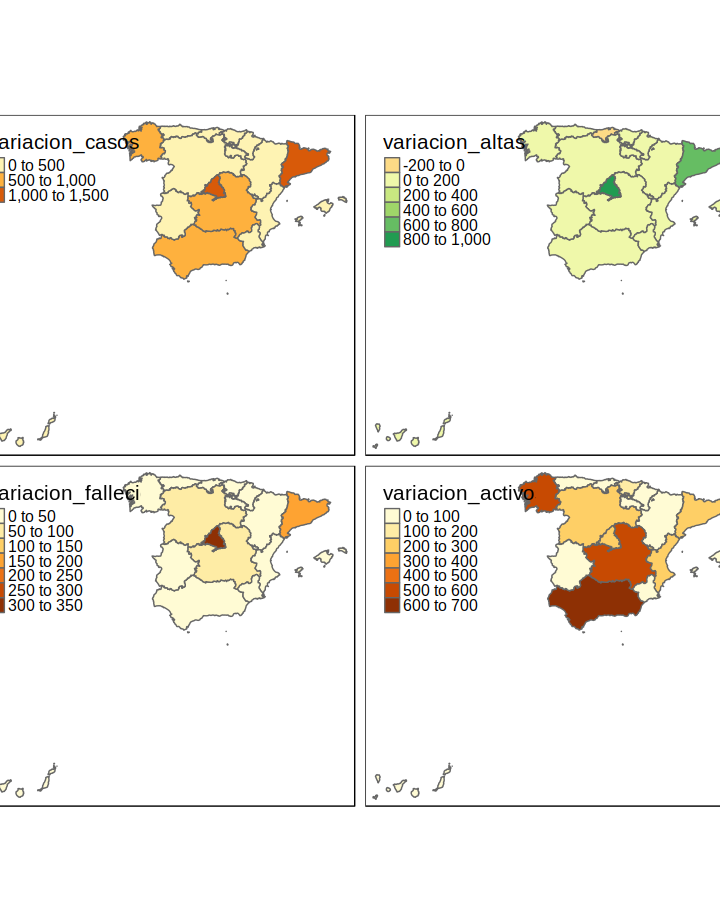
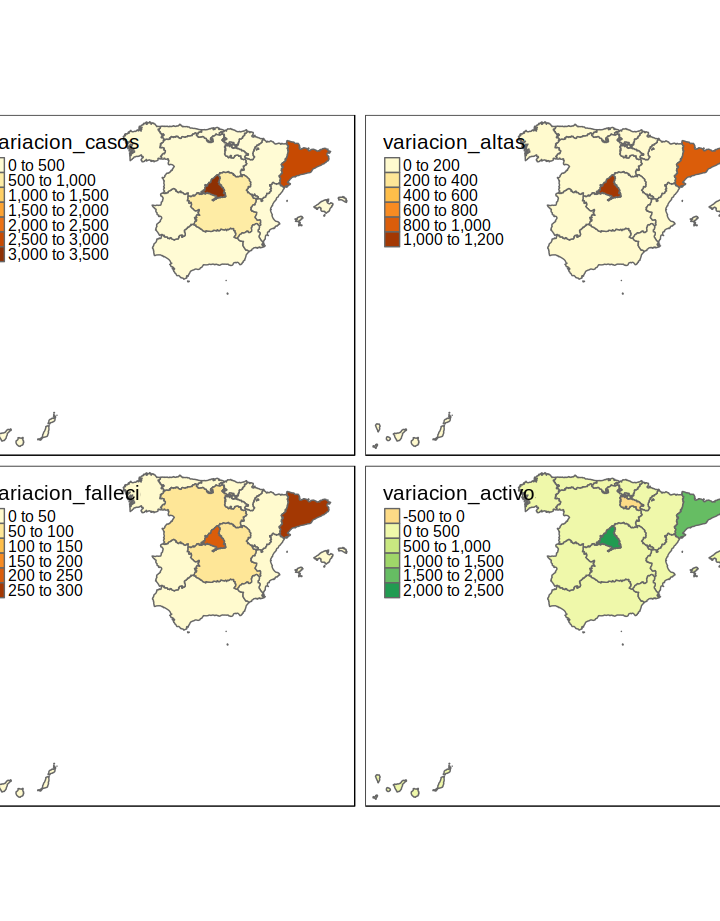
Updates data.

diff --git a/docs/index.html b/docs/index.html
@@ -2609,35 +2609,35 @@ window.FlexDashboardComponents.push({
 <div class="knitr-options" data-fig-width="576" data-fig-height="460">
 
 </div>
-<span class="value-output" data-caption="Casos confirmados (a 2020-03-30)" data-icon="fas fa-virus" data-color="#1F77B4">85.195</span>
+<span class="value-output" data-caption="Casos confirmados (a 2020-03-31)" data-icon="fas fa-virus" data-color="#1F77B4">94.417</span>
 </div>
 <div id="active" class="section level3 value-box">
 <h3>active</h3>
 <div class="knitr-options" data-fig-width="576" data-fig-height="460">
 
 </div>
-<span class="value-output" data-caption="Casos activos (a 2020-03-30)" data-icon="fas fal-bacteria" data-color="#FF7F0E">61.075</span>
+<span class="value-output" data-caption="Casos activos (a 2020-03-31)" data-icon="fas fa-viruses" data-color="#FF7F0E">66.969</span>
 </div>
 <div id="uci" class="section level3 value-box">
 <h3>uci</h3>
 <div class="knitr-options" data-fig-width="576" data-fig-height="460">
 
 </div>
-<span class="value-output" data-caption="Casos hospitalizados (a 2020-03-30)" data-icon="fas fa-ambulance" data-color="pink">5.231</span>
+<span class="value-output" data-caption="Casos hospitalizados (a 2020-03-31)" data-icon="fas fa-ambulance" data-color="pink">5.607</span>
 </div>
 <div id="recovered" class="section level3 value-box">
 <h3>recovered</h3>
 <div class="knitr-options" data-fig-width="576" data-fig-height="460">
 
 </div>
-<span class="value-output" data-caption="Personas recuperadas (a 2020-03-30)" data-icon="fas fa-user-md" data-color="#2C9F2C">16.780</span>
+<span class="value-output" data-caption="Personas recuperadas (a 2020-03-31)" data-icon="fas fa-user-md" data-color="#2C9F2C">19.259</span>
 </div>
 <div id="deaths" class="section level3 value-box">
 <h3>deaths</h3>
 <div class="knitr-options" data-fig-width="576" data-fig-height="460">
 
 </div>
-<span class="value-output" data-caption="Fallecimientos (a 2020-03-30)" data-icon="fas fa-coffin" data-color="rgba(214, 39, 40, 1)">7.340</span>
+<span class="value-output" data-caption="Fallecimientos (a 2020-03-31)" data-icon="fas fa-coffin" data-color="rgba(214, 39, 40, 1)">8.189</span>
 </div>
 </div>
 <div id="row-1" class="section level2 tabset tabset-fade">
@@ -2647,32 +2647,32 @@ window.FlexDashboardComponents.push({
 <div class="knitr-options" data-fig-width="576" data-fig-height="460">
 
 </div>
-<div id="htmlwidget-e8a8a8850e2c8227f307" style="width:576px;height:460.8px;" class="plotly html-widget"></div>
-<script type="application/json" data-for="htmlwidget-e8a8a8850e2c8227f307">{"x":{"visdat":{"20085165167a":["function () ","plotlyVisDat"]},"cur_data":"20085165167a","attrs":{"20085165167a":{"alpha_stroke":1,"sizes":[10,100],"spans":[1,20],"x":{},"y":{},"type":"scatter","mode":"lines+markers","name":"Variación de contagios","inherit":true},"20085165167a.1":{"alpha_stroke":1,"sizes":[10,100],"spans":[1,20],"x":{},"y":{},"type":"scatter","mode":"lines+markers","name":"Variación de casos activos","inherit":true},"20085165167a.2":{"alpha_stroke":1,"sizes":[10,100],"spans":[1,20],"x":{},"y":{},"type":"scatter","mode":"lines+markers","name":"Variación de casos recuperados","inherit":true},"20085165167a.3":{"alpha_stroke":1,"sizes":[10,100],"spans":[1,20],"x":{},"y":{},"type":"scatter","mode":"lines+markers","name":"Variación de fallecimientos","inherit":true}},"layout":{"margin":{"b":40,"l":60,"t":25,"r":10},"shapes":[{"type":"line","y0":0,"y1":1,"yref":"paper","x0":"2020-03-13","x1":"2020-03-13","line":{"color":"grey","dash":"dot"}},{"type":"line","y0":0,"y1":1,"yref":"paper","x0":"2020-03-16","x1":"2020-03-16","line":{"color":"grey","dash":"dot"}},{"type":"line","y0":0,"y1":1,"yref":"paper","x0":"2020-03-30","x1":"2020-03-30","line":{"color":"grey","dash":"dot"}}],"annotations":[{"text":"Datos: Ministerio de Sanidad a través de Datadista","x":1,"y":-0.05,"showarrow":false,"xref":"paper","yref":"paper","xanchor":"right","yanchor":"bottom","font":{"size":10,"color":"grey"}},{"yref":"paper","xref":"x","y":0.5,"x":"2020-3-13","text":"Confinamiento voluntario"},{"yref":"paper","xref":"x","y":0.75,"x":"2020-3-16","text":"Confinamiento obligatorio"},{"yref":"paper","xref":"x","y":0.9,"x":"2020-3-30","text":"Únicamente trabajos indispensables"}],"title":"Evolución de variacion de casos del COVID-19 con respecto al día anterior, en España","yaxis":{"domain":[0,1],"automargin":true,"title":"Número de casos"},"xaxis":{"domain":[0,1],"automargin":true,"title":"Fecha"},"legend":{"x":0.1,"y":0.9},"hovermode":"compare","showlegend":true},"source":"A","config":{"showSendToCloud":false},"data":[{"x":["2020-03-30","2020-03-29","2020-03-28","2020-03-27","2020-03-26","2020-03-25","2020-03-24","2020-03-23","2020-03-22","2020-03-21","2020-03-20","2020-03-19","2020-03-18","2020-03-17","2020-03-16","2020-03-15","2020-03-14","2020-03-13","2020-03-12","2020-03-11","2020-03-10","2020-03-09","2020-03-08","2020-03-07","2020-03-06","2020-03-05","2020-03-04","2020-03-03","2020-03-02","2020-03-01","2020-02-29","2020-02-28","2020-02-27","2020-02-26"],"y":[6398,6549,8189,7871,8578,7937,6584,4517,3646,4946,2833,3431,2538,1987,1438,2000,1544,1259,822,506,623,410,159,65,128,39,63,21,48,22,12,16,6,7],"type":"scatter","mode":"lines+markers","name":"Variación de contagios","marker":{"color":"rgba(31,119,180,1)","line":{"color":"rgba(31,119,180,1)"}},"error_y":{"color":"rgba(31,119,180,1)"},"error_x":{"color":"rgba(31,119,180,1)"},"line":{"color":"rgba(31,119,180,1)"},"xaxis":"x","yaxis":"y","frame":null},{"x":["2020-03-30","2020-03-29","2020-03-28","2020-03-27","2020-03-26","2020-03-25","2020-03-24","2020-03-23","2020-03-22","2020-03-21","2020-03-20","2020-03-19","2020-03-18","2020-03-17","2020-03-16","2020-03-15","2020-03-14","2020-03-13","2020-03-12","2020-03-11","2020-03-10"],"y":[3515,3287,4429,4760,6275,5626,5631,3275,2802,4082,2120,3236,2378,1307,1404,1848,1200,1223,779,446,493],"type":"scatter","mode":"lines+markers","name":"Variación de casos activos","marker":{"color":"rgba(255,127,14,1)","line":{"color":"rgba(255,127,14,1)"}},"error_y":{"color":"rgba(255,127,14,1)"},"error_x":{"color":"rgba(255,127,14,1)"},"line":{"color":"rgba(255,127,14,1)"},"xaxis":"x","yaxis":"y","frame":null},{"x":["2020-03-30","2020-03-29","2020-03-28","2020-03-27","2020-03-26","2020-03-25","2020-03-24","2020-03-23","2020-03-22","2020-03-21","2020-03-20","2020-03-19","2020-03-18","2020-03-17","2020-03-16","2020-03-15","2020-03-14","2020-03-13","2020-03-12","2020-03-11","2020-03-10"],"y":[2071,2424,2928,2342,1648,1573,439,780,450,540,478,26,53,498,13,0,328,0,6,48,112],"type":"scatter","mode":"lines+markers","name":"Variación de casos recuperados","marker":{"color":"rgba(44,160,44,1)","line":{"color":"rgba(44,160,44,1)"}},"error_y":{"color":"rgba(44,160,44,1)"},"error_x":{"color":"rgba(44,160,44,1)"},"line":{"color":"rgba(44,160,44,1)"},"xaxis":"x","yaxis":"y","frame":null},{"x":["2020-03-30","2020-03-29","2020-03-28","2020-03-27","2020-03-26","2020-03-25","2020-03-24","2020-03-23","2020-03-22","2020-03-21","2020-03-20","2020-03-19","2020-03-18","2020-03-17","2020-03-16","2020-03-15","2020-03-14","2020-03-13","2020-03-12","2020-03-11","2020-03-10","2020-03-09","2020-03-08","2020-03-07","2020-03-06","2020-03-05"],"y":[812,838,832,769,655,738,514,462,394,324,235,169,107,182,21,152,16,36,37,12,18,0,9,3,2,2],"type":"scatter","mode":"lines+markers","name":"Variación de fallecimientos","marker":{"color":"rgba(214,39,40,1)","line":{"color":"rgba(214,39,40,1)"}},"error_y":{"color":"rgba(214,39,40,1)"},"error_x":{"color":"rgba(214,39,40,1)"},"line":{"color":"rgba(214,39,40,1)"},"xaxis":"x","yaxis":"y","frame":null}],"highlight":{"on":"plotly_click","persistent":false,"dynamic":false,"selectize":false,"opacityDim":0.2,"selected":{"opacity":1},"debounce":0},"shinyEvents":["plotly_hover","plotly_click","plotly_selected","plotly_relayout","plotly_brushed","plotly_brushing","plotly_clickannotation","plotly_doubleclick","plotly_deselect","plotly_afterplot","plotly_sunburstclick"],"base_url":"https://plot.ly"},"evals":[],"jsHooks":[]}</script>
+<div id="htmlwidget-09272f360e04e08e916f" style="width:576px;height:460.8px;" class="plotly html-widget"></div>
+<script type="application/json" data-for="htmlwidget-09272f360e04e08e916f">{"x":{"visdat":{"4356737eff21":["function () ","plotlyVisDat"]},"cur_data":"4356737eff21","attrs":{"4356737eff21":{"alpha_stroke":1,"sizes":[10,100],"spans":[1,20],"x":{},"y":{},"type":"scatter","mode":"lines+markers","name":"Variación de contagios","inherit":true},"4356737eff21.1":{"alpha_stroke":1,"sizes":[10,100],"spans":[1,20],"x":{},"y":{},"type":"scatter","mode":"lines+markers","name":"Variación de casos activos","inherit":true},"4356737eff21.2":{"alpha_stroke":1,"sizes":[10,100],"spans":[1,20],"x":{},"y":{},"type":"scatter","mode":"lines+markers","name":"Variación de casos recuperados","inherit":true},"4356737eff21.3":{"alpha_stroke":1,"sizes":[10,100],"spans":[1,20],"x":{},"y":{},"type":"scatter","mode":"lines+markers","name":"Variación de fallecimientos","inherit":true}},"layout":{"margin":{"b":40,"l":60,"t":25,"r":10},"shapes":[{"type":"line","y0":0,"y1":1,"yref":"paper","x0":"2020-03-13","x1":"2020-03-13","line":{"color":"grey","dash":"dot"}},{"type":"line","y0":0,"y1":1,"yref":"paper","x0":"2020-03-16","x1":"2020-03-16","line":{"color":"grey","dash":"dot"}},{"type":"line","y0":0,"y1":1,"yref":"paper","x0":"2020-03-30","x1":"2020-03-30","line":{"color":"grey","dash":"dot"}}],"annotations":[{"text":"Datos: Ministerio de Sanidad a través de Datadista","x":1,"y":-0.05,"showarrow":false,"xref":"paper","yref":"paper","xanchor":"right","yanchor":"bottom","font":{"size":10,"color":"grey"}},{"yref":"paper","xref":"x","y":0.5,"x":"2020-3-13","text":"Confinamiento voluntario"},{"yref":"paper","xref":"x","y":0.75,"x":"2020-3-16","text":"Confinamiento obligatorio"},{"yref":"paper","xref":"x","y":0.9,"x":"2020-3-30","text":"Únicamente trabajos indispensables"}],"title":"Evolución de variacion de casos del COVID-19 con respecto al día anterior, en España","yaxis":{"domain":[0,1],"automargin":true,"title":"Número de casos"},"xaxis":{"domain":[0,1],"automargin":true,"title":"Fecha"},"legend":{"x":0.1,"y":0.9},"hovermode":"compare","showlegend":true},"source":"A","config":{"showSendToCloud":false},"data":[{"x":["2020-03-31","2020-03-30","2020-03-29","2020-03-28","2020-03-27","2020-03-26","2020-03-25","2020-03-24","2020-03-23","2020-03-22","2020-03-21","2020-03-20","2020-03-19","2020-03-18","2020-03-17","2020-03-16","2020-03-15","2020-03-14","2020-03-13","2020-03-12","2020-03-11","2020-03-10","2020-03-09","2020-03-08","2020-03-07","2020-03-06","2020-03-05","2020-03-04","2020-03-03","2020-03-02","2020-03-01","2020-02-29","2020-02-28","2020-02-27","2020-02-26"],"y":[9222,6398,6549,8189,7871,8578,7937,6584,4517,3646,4946,2833,3431,2538,1987,1438,2000,1544,1259,822,506,623,410,159,65,128,39,63,21,48,22,12,16,6,7],"type":"scatter","mode":"lines+markers","name":"Variación de contagios","marker":{"color":"rgba(31,119,180,1)","line":{"color":"rgba(31,119,180,1)"}},"error_y":{"color":"rgba(31,119,180,1)"},"error_x":{"color":"rgba(31,119,180,1)"},"line":{"color":"rgba(31,119,180,1)"},"xaxis":"x","yaxis":"y","frame":null},{"x":["2020-03-31","2020-03-30","2020-03-29","2020-03-28","2020-03-27","2020-03-26","2020-03-25","2020-03-24","2020-03-23","2020-03-22","2020-03-21","2020-03-20","2020-03-19","2020-03-18","2020-03-17","2020-03-16","2020-03-15","2020-03-14","2020-03-13","2020-03-12","2020-03-11","2020-03-10"],"y":[5894,3515,3287,4429,4760,6275,5626,5631,3275,2802,4082,2120,3236,2378,1307,1404,1848,1200,1223,779,446,493],"type":"scatter","mode":"lines+markers","name":"Variación de casos activos","marker":{"color":"rgba(255,127,14,1)","line":{"color":"rgba(255,127,14,1)"}},"error_y":{"color":"rgba(255,127,14,1)"},"error_x":{"color":"rgba(255,127,14,1)"},"line":{"color":"rgba(255,127,14,1)"},"xaxis":"x","yaxis":"y","frame":null},{"x":["2020-03-31","2020-03-30","2020-03-29","2020-03-28","2020-03-27","2020-03-26","2020-03-25","2020-03-24","2020-03-23","2020-03-22","2020-03-21","2020-03-20","2020-03-19","2020-03-18","2020-03-17","2020-03-16","2020-03-15","2020-03-14","2020-03-13","2020-03-12","2020-03-11","2020-03-10"],"y":[2479,2071,2424,2928,2342,1648,1573,439,780,450,540,478,26,53,498,13,0,328,0,6,48,112],"type":"scatter","mode":"lines+markers","name":"Variación de casos recuperados","marker":{"color":"rgba(44,160,44,1)","line":{"color":"rgba(44,160,44,1)"}},"error_y":{"color":"rgba(44,160,44,1)"},"error_x":{"color":"rgba(44,160,44,1)"},"line":{"color":"rgba(44,160,44,1)"},"xaxis":"x","yaxis":"y","frame":null},{"x":["2020-03-31","2020-03-30","2020-03-29","2020-03-28","2020-03-27","2020-03-26","2020-03-25","2020-03-24","2020-03-23","2020-03-22","2020-03-21","2020-03-20","2020-03-19","2020-03-18","2020-03-17","2020-03-16","2020-03-15","2020-03-14","2020-03-13","2020-03-12","2020-03-11","2020-03-10","2020-03-09","2020-03-08","2020-03-07","2020-03-06","2020-03-05"],"y":[849,812,838,832,769,655,738,514,462,394,324,235,169,107,182,21,152,16,36,37,12,18,0,9,3,2,2],"type":"scatter","mode":"lines+markers","name":"Variación de fallecimientos","marker":{"color":"rgba(214,39,40,1)","line":{"color":"rgba(214,39,40,1)"}},"error_y":{"color":"rgba(214,39,40,1)"},"error_x":{"color":"rgba(214,39,40,1)"},"line":{"color":"rgba(214,39,40,1)"},"xaxis":"x","yaxis":"y","frame":null}],"highlight":{"on":"plotly_click","persistent":false,"dynamic":false,"selectize":false,"opacityDim":0.2,"selected":{"opacity":1},"debounce":0},"shinyEvents":["plotly_hover","plotly_click","plotly_selected","plotly_relayout","plotly_brushed","plotly_brushing","plotly_clickannotation","plotly_doubleclick","plotly_deselect","plotly_afterplot","plotly_sunburstclick"],"base_url":"https://plot.ly"},"evals":[],"jsHooks":[]}</script>
 </div>
 <div id="acumulados" class="section level3">
 <h3>Acumulados</h3>
 <div class="knitr-options" data-fig-width="576" data-fig-height="460">
 
 </div>
-<div id="htmlwidget-43c11f1a68a1007bf902" style="width:576px;height:460.8px;" class="plotly html-widget"></div>
-<script type="application/json" data-for="htmlwidget-43c11f1a68a1007bf902">{"x":{"visdat":{"200871816eb6":["function () ","plotlyVisDat"]},"cur_data":"200871816eb6","attrs":{"200871816eb6":{"alpha_stroke":1,"sizes":[10,100],"spans":[1,20],"x":{},"y":{},"type":"scatter","mode":"lines+markers","name":"Contagios detectados","inherit":true},"200871816eb6.1":{"alpha_stroke":1,"sizes":[10,100],"spans":[1,20],"x":{},"y":{},"type":"scatter","mode":"lines+markers","name":"Casos activos","inherit":true},"200871816eb6.2":{"alpha_stroke":1,"sizes":[10,100],"spans":[1,20],"x":{},"y":{},"type":"scatter","mode":"lines+markers","name":"Casos recuperados","inherit":true},"200871816eb6.3":{"alpha_stroke":1,"sizes":[10,100],"spans":[1,20],"x":{},"y":{},"type":"scatter","mode":"lines+markers","name":"Fallecimientos por COVID19","inherit":true}},"layout":{"margin":{"b":40,"l":60,"t":25,"r":10},"shapes":[{"type":"line","y0":0,"y1":1,"yref":"paper","x0":"2020-03-13","x1":"2020-03-13","line":{"color":"grey","dash":"dot"}},{"type":"line","y0":0,"y1":1,"yref":"paper","x0":"2020-03-16","x1":"2020-03-16","line":{"color":"grey","dash":"dot"}},{"type":"line","y0":0,"y1":1,"yref":"paper","x0":"2020-03-30","x1":"2020-03-30","line":{"color":"grey","dash":"dot"}}],"annotations":[{"text":"Datos: Ministerio de Sanidad a través de Datadista","x":1,"y":-0.05,"showarrow":false,"xref":"paper","yref":"paper","xanchor":"right","yanchor":"bottom","font":{"size":10,"color":"grey"}},{"yref":"paper","xref":"x","y":0.5,"x":"2020-3-13","text":"Confinamiento voluntario"},{"yref":"paper","xref":"x","y":0.75,"x":"2020-3-16","text":"Confinamiento obligatorio"},{"yref":"paper","xref":"x","y":0.5,"x":"2020-3-30","text":"Únicamente trabajos indispensables"}],"title":"Evolución del COVID-19 en España","yaxis":{"domain":[0,1],"automargin":true,"title":"Número de casos"},"xaxis":{"domain":[0,1],"automargin":true,"title":"Fecha"},"legend":{"x":0.1,"y":0.9},"hovermode":"compare","showlegend":true},"source":"A","config":{"showSendToCloud":false},"data":[{"x":["2020-03-30","2020-03-29","2020-03-28","2020-03-27","2020-03-26","2020-03-25","2020-03-24","2020-03-23","2020-03-22","2020-03-21","2020-03-20","2020-03-19","2020-03-18","2020-03-17","2020-03-16","2020-03-15","2020-03-14","2020-03-13","2020-03-12","2020-03-11","2020-03-10","2020-03-09","2020-03-08","2020-03-07","2020-03-06","2020-03-05","2020-03-04","2020-03-03","2020-03-02","2020-03-01","2020-02-29","2020-02-28","2020-02-27","2020-02-26","2020-02-25"],"y":[85195,78797,72248,64059,56188,47610,39673,33089,28572,24926,19980,17147,13716,11178,9191,7753,5753,4209,2950,2128,1622,999,589,430,365,237,198,135,114,66,44,32,16,10,3],"type":"scatter","mode":"lines+markers","name":"Contagios detectados","marker":{"color":"rgba(31,119,180,1)","line":{"color":"rgba(31,119,180,1)"}},"error_y":{"color":"rgba(31,119,180,1)"},"error_x":{"color":"rgba(31,119,180,1)"},"line":{"color":"rgba(31,119,180,1)"},"xaxis":"x","yaxis":"y","frame":null},{"x":["2020-03-30","2020-03-29","2020-03-28","2020-03-27","2020-03-26","2020-03-25","2020-03-24","2020-03-23","2020-03-22","2020-03-21","2020-03-20","2020-03-19","2020-03-18","2020-03-17","2020-03-16","2020-03-15","2020-03-14","2020-03-13","2020-03-12","2020-03-11","2020-03-10","2020-03-09"],"y":[61075,57560,54273,49844,45084,38809,33183,27552,24277,21475,17393,15273,12037,9659,8352,6948,5100,3900,2677,1898,1452,959],"type":"scatter","mode":"lines+markers","name":"Casos activos","marker":{"color":"rgba(255,127,14,1)","line":{"color":"rgba(255,127,14,1)"}},"error_y":{"color":"rgba(255,127,14,1)"},"error_x":{"color":"rgba(255,127,14,1)"},"line":{"color":"rgba(255,127,14,1)"},"xaxis":"x","yaxis":"y","frame":null},{"x":["2020-03-30","2020-03-29","2020-03-28","2020-03-27","2020-03-26","2020-03-25","2020-03-24","2020-03-23","2020-03-22","2020-03-21","2020-03-20","2020-03-19","2020-03-18","2020-03-17","2020-03-16","2020-03-15","2020-03-14","2020-03-13","2020-03-12","2020-03-11","2020-03-10","2020-03-09"],"y":[16780,14709,12285,9357,7015,5367,3794,3355,2575,2125,1585,1107,1081,1028,530,517,517,189,189,183,135,23],"type":"scatter","mode":"lines+markers","name":"Casos recuperados","marker":{"color":"rgba(44,160,44,1)","line":{"color":"rgba(44,160,44,1)"}},"error_y":{"color":"rgba(44,160,44,1)"},"error_x":{"color":"rgba(44,160,44,1)"},"line":{"color":"rgba(44,160,44,1)"},"xaxis":"x","yaxis":"y","frame":null},{"x":["2020-03-30","2020-03-29","2020-03-28","2020-03-27","2020-03-26","2020-03-25","2020-03-24","2020-03-23","2020-03-22","2020-03-21","2020-03-20","2020-03-19","2020-03-18","2020-03-17","2020-03-16","2020-03-15","2020-03-14","2020-03-13","2020-03-12","2020-03-11","2020-03-10","2020-03-09","2020-03-08","2020-03-07","2020-03-06","2020-03-05","2020-03-04"],"y":[7340,6528,5690,4858,4089,3434,2696,2182,1720,1326,1002,767,598,491,309,288,136,120,84,47,35,17,17,8,5,3,1],"type":"scatter","mode":"lines+markers","name":"Fallecimientos por COVID19","marker":{"color":"rgba(214,39,40,1)","line":{"color":"rgba(214,39,40,1)"}},"error_y":{"color":"rgba(214,39,40,1)"},"error_x":{"color":"rgba(214,39,40,1)"},"line":{"color":"rgba(214,39,40,1)"},"xaxis":"x","yaxis":"y","frame":null}],"highlight":{"on":"plotly_click","persistent":false,"dynamic":false,"selectize":false,"opacityDim":0.2,"selected":{"opacity":1},"debounce":0},"shinyEvents":["plotly_hover","plotly_click","plotly_selected","plotly_relayout","plotly_brushed","plotly_brushing","plotly_clickannotation","plotly_doubleclick","plotly_deselect","plotly_afterplot","plotly_sunburstclick"],"base_url":"https://plot.ly"},"evals":[],"jsHooks":[]}</script>
+<div id="htmlwidget-cb486cc0c512b2fed519" style="width:576px;height:460.8px;" class="plotly html-widget"></div>
+<script type="application/json" data-for="htmlwidget-cb486cc0c512b2fed519">{"x":{"visdat":{"43567482cda0":["function () ","plotlyVisDat"]},"cur_data":"43567482cda0","attrs":{"43567482cda0":{"alpha_stroke":1,"sizes":[10,100],"spans":[1,20],"x":{},"y":{},"type":"scatter","mode":"lines+markers","name":"Contagios detectados","inherit":true},"43567482cda0.1":{"alpha_stroke":1,"sizes":[10,100],"spans":[1,20],"x":{},"y":{},"type":"scatter","mode":"lines+markers","name":"Casos activos","inherit":true},"43567482cda0.2":{"alpha_stroke":1,"sizes":[10,100],"spans":[1,20],"x":{},"y":{},"type":"scatter","mode":"lines+markers","name":"Casos recuperados","inherit":true},"43567482cda0.3":{"alpha_stroke":1,"sizes":[10,100],"spans":[1,20],"x":{},"y":{},"type":"scatter","mode":"lines+markers","name":"Fallecimientos por COVID19","inherit":true}},"layout":{"margin":{"b":40,"l":60,"t":25,"r":10},"shapes":[{"type":"line","y0":0,"y1":1,"yref":"paper","x0":"2020-03-13","x1":"2020-03-13","line":{"color":"grey","dash":"dot"}},{"type":"line","y0":0,"y1":1,"yref":"paper","x0":"2020-03-16","x1":"2020-03-16","line":{"color":"grey","dash":"dot"}},{"type":"line","y0":0,"y1":1,"yref":"paper","x0":"2020-03-30","x1":"2020-03-30","line":{"color":"grey","dash":"dot"}}],"annotations":[{"text":"Datos: Ministerio de Sanidad a través de Datadista","x":1,"y":-0.05,"showarrow":false,"xref":"paper","yref":"paper","xanchor":"right","yanchor":"bottom","font":{"size":10,"color":"grey"}},{"yref":"paper","xref":"x","y":0.5,"x":"2020-3-13","text":"Confinamiento voluntario"},{"yref":"paper","xref":"x","y":0.75,"x":"2020-3-16","text":"Confinamiento obligatorio"},{"yref":"paper","xref":"x","y":0.5,"x":"2020-3-30","text":"Únicamente trabajos indispensables"}],"title":"Evolución del COVID-19 en España","yaxis":{"domain":[0,1],"automargin":true,"title":"Número de casos"},"xaxis":{"domain":[0,1],"automargin":true,"title":"Fecha"},"legend":{"x":0.1,"y":0.9},"hovermode":"compare","showlegend":true},"source":"A","config":{"showSendToCloud":false},"data":[{"x":["2020-03-31","2020-03-30","2020-03-29","2020-03-28","2020-03-27","2020-03-26","2020-03-25","2020-03-24","2020-03-23","2020-03-22","2020-03-21","2020-03-20","2020-03-19","2020-03-18","2020-03-17","2020-03-16","2020-03-15","2020-03-14","2020-03-13","2020-03-12","2020-03-11","2020-03-10","2020-03-09","2020-03-08","2020-03-07","2020-03-06","2020-03-05","2020-03-04","2020-03-03","2020-03-02","2020-03-01","2020-02-29","2020-02-28","2020-02-27","2020-02-26","2020-02-25"],"y":[94417,85195,78797,72248,64059,56188,47610,39673,33089,28572,24926,19980,17147,13716,11178,9191,7753,5753,4209,2950,2128,1622,999,589,430,365,237,198,135,114,66,44,32,16,10,3],"type":"scatter","mode":"lines+markers","name":"Contagios detectados","marker":{"color":"rgba(31,119,180,1)","line":{"color":"rgba(31,119,180,1)"}},"error_y":{"color":"rgba(31,119,180,1)"},"error_x":{"color":"rgba(31,119,180,1)"},"line":{"color":"rgba(31,119,180,1)"},"xaxis":"x","yaxis":"y","frame":null},{"x":["2020-03-31","2020-03-30","2020-03-29","2020-03-28","2020-03-27","2020-03-26","2020-03-25","2020-03-24","2020-03-23","2020-03-22","2020-03-21","2020-03-20","2020-03-19","2020-03-18","2020-03-17","2020-03-16","2020-03-15","2020-03-14","2020-03-13","2020-03-12","2020-03-11","2020-03-10","2020-03-09"],"y":[66969,61075,57560,54273,49844,45084,38809,33183,27552,24277,21475,17393,15273,12037,9659,8352,6948,5100,3900,2677,1898,1452,959],"type":"scatter","mode":"lines+markers","name":"Casos activos","marker":{"color":"rgba(255,127,14,1)","line":{"color":"rgba(255,127,14,1)"}},"error_y":{"color":"rgba(255,127,14,1)"},"error_x":{"color":"rgba(255,127,14,1)"},"line":{"color":"rgba(255,127,14,1)"},"xaxis":"x","yaxis":"y","frame":null},{"x":["2020-03-31","2020-03-30","2020-03-29","2020-03-28","2020-03-27","2020-03-26","2020-03-25","2020-03-24","2020-03-23","2020-03-22","2020-03-21","2020-03-20","2020-03-19","2020-03-18","2020-03-17","2020-03-16","2020-03-15","2020-03-14","2020-03-13","2020-03-12","2020-03-11","2020-03-10","2020-03-09"],"y":[19259,16780,14709,12285,9357,7015,5367,3794,3355,2575,2125,1585,1107,1081,1028,530,517,517,189,189,183,135,23],"type":"scatter","mode":"lines+markers","name":"Casos recuperados","marker":{"color":"rgba(44,160,44,1)","line":{"color":"rgba(44,160,44,1)"}},"error_y":{"color":"rgba(44,160,44,1)"},"error_x":{"color":"rgba(44,160,44,1)"},"line":{"color":"rgba(44,160,44,1)"},"xaxis":"x","yaxis":"y","frame":null},{"x":["2020-03-31","2020-03-30","2020-03-29","2020-03-28","2020-03-27","2020-03-26","2020-03-25","2020-03-24","2020-03-23","2020-03-22","2020-03-21","2020-03-20","2020-03-19","2020-03-18","2020-03-17","2020-03-16","2020-03-15","2020-03-14","2020-03-13","2020-03-12","2020-03-11","2020-03-10","2020-03-09","2020-03-08","2020-03-07","2020-03-06","2020-03-05","2020-03-04"],"y":[8189,7340,6528,5690,4858,4089,3434,2696,2182,1720,1326,1002,767,598,491,309,288,136,120,84,47,35,17,17,8,5,3,1],"type":"scatter","mode":"lines+markers","name":"Fallecimientos por COVID19","marker":{"color":"rgba(214,39,40,1)","line":{"color":"rgba(214,39,40,1)"}},"error_y":{"color":"rgba(214,39,40,1)"},"error_x":{"color":"rgba(214,39,40,1)"},"line":{"color":"rgba(214,39,40,1)"},"xaxis":"x","yaxis":"y","frame":null}],"highlight":{"on":"plotly_click","persistent":false,"dynamic":false,"selectize":false,"opacityDim":0.2,"selected":{"opacity":1},"debounce":0},"shinyEvents":["plotly_hover","plotly_click","plotly_selected","plotly_relayout","plotly_brushed","plotly_brushing","plotly_clickannotation","plotly_doubleclick","plotly_deselect","plotly_afterplot","plotly_sunburstclick"],"base_url":"https://plot.ly"},"evals":[],"jsHooks":[]}</script>
 </div>
 <div id="composición-de-casos-por-día" class="section level3">
 <h3>Composición de casos por día</h3>
 <div class="knitr-options" data-fig-width="576" data-fig-height="460">
 
 </div>
-<div id="htmlwidget-28790b686da33b376bef" style="width:576px;height:460.8px;" class="plotly html-widget"></div>
-<script type="application/json" data-for="htmlwidget-28790b686da33b376bef">{"x":{"visdat":{"200831655d59":["function () ","plotlyVisDat"]},"cur_data":"200831655d59","attrs":{"200831655d59":{"x":{},"y":{},"marker":{"color":"#FF7F0E"},"name":"Variación de casos activos","alpha_stroke":1,"sizes":[10,100],"spans":[1,20],"type":"bar"},"200831655d59.1":{"x":{},"y":{},"marker":{"color":"#2C9F2C"},"name":"Variación de casos recuperados","alpha_stroke":1,"sizes":[10,100],"spans":[1,20],"type":"bar","inherit":true},"200831655d59.2":{"x":{},"y":{},"marker":{"color":"rgba(214, 39, 40, 1)"},"name":"Variación de fallecimientos","alpha_stroke":1,"sizes":[10,100],"spans":[1,20],"type":"bar","inherit":true}},"layout":{"margin":{"b":40,"l":60,"t":25,"r":10},"barmode":"stack","shapes":[{"type":"line","y0":0,"y1":1,"yref":"paper","x0":"2020-03-13","x1":"2020-03-13","line":{"color":"grey","dash":"dot"}},{"type":"line","y0":0,"y1":1,"yref":"paper","x0":"2020-03-16","x1":"2020-03-16","line":{"color":"grey","dash":"dot"}},{"type":"line","y0":0,"y1":1,"yref":"paper","x0":"2020-03-30","x1":"2020-03-30","line":{"color":"grey","dash":"dot"}}],"annotations":[{"text":"Datos: Ministerio de Sanidad a través de Datadista","x":1,"y":-0.05,"showarrow":false,"xref":"paper","yref":"paper","xanchor":"right","yanchor":"bottom","font":{"size":10,"color":"grey"}},{"yref":"paper","xref":"x","y":0.5,"x":"2020-3-13","text":"Confinamiento voluntario"},{"yref":"paper","xref":"x","y":0.75,"x":"2020-3-16","text":"Confinamiento obligatorio"},{"yref":"paper","xref":"x","y":0.9,"x":"2020-3-30","text":"Únicamente trabajos indispensables"}],"title":"Composición de casos del COVID-19 con respecto al día anterior, en España","yaxis":{"domain":[0,1],"automargin":true,"title":"Número de casos"},"xaxis":{"domain":[0,1],"automargin":true,"title":"Fecha"},"legend":{"x":0.1,"y":0.9},"hovermode":"compare","showlegend":true},"source":"A","config":{"showSendToCloud":false},"data":[{"x":["2020-03-30","2020-03-29","2020-03-28","2020-03-27","2020-03-26","2020-03-25","2020-03-24","2020-03-23","2020-03-22","2020-03-21","2020-03-20","2020-03-19","2020-03-18","2020-03-17","2020-03-16","2020-03-15","2020-03-14","2020-03-13","2020-03-12","2020-03-11","2020-03-10"],"y":[3515,3287,4429,4760,6275,5626,5631,3275,2802,4082,2120,3236,2378,1307,1404,1848,1200,1223,779,446,493],"marker":{"color":"#FF7F0E","line":{"color":"rgba(31,119,180,1)"}},"name":"Variación de casos activos","type":"bar","error_y":{"color":"rgba(31,119,180,1)"},"error_x":{"color":"rgba(31,119,180,1)"},"xaxis":"x","yaxis":"y","frame":null},{"x":["2020-03-30","2020-03-29","2020-03-28","2020-03-27","2020-03-26","2020-03-25","2020-03-24","2020-03-23","2020-03-22","2020-03-21","2020-03-20","2020-03-19","2020-03-18","2020-03-17","2020-03-16","2020-03-15","2020-03-14","2020-03-13","2020-03-12","2020-03-11","2020-03-10"],"y":[2071,2424,2928,2342,1648,1573,439,780,450,540,478,26,53,498,13,0,328,0,6,48,112],"marker":{"color":"#2C9F2C","line":{"color":"rgba(255,127,14,1)"}},"name":"Variación de casos recuperados","type":"bar","error_y":{"color":"rgba(255,127,14,1)"},"error_x":{"color":"rgba(255,127,14,1)"},"xaxis":"x","yaxis":"y","frame":null},{"x":["2020-03-30","2020-03-29","2020-03-28","2020-03-27","2020-03-26","2020-03-25","2020-03-24","2020-03-23","2020-03-22","2020-03-21","2020-03-20","2020-03-19","2020-03-18","2020-03-17","2020-03-16","2020-03-15","2020-03-14","2020-03-13","2020-03-12","2020-03-11","2020-03-10","2020-03-09","2020-03-08","2020-03-07","2020-03-06","2020-03-05"],"y":[812,838,832,769,655,738,514,462,394,324,235,169,107,182,21,152,16,36,37,12,18,0,9,3,2,2],"marker":{"color":"rgba(214, 39, 40, 1)","line":{"color":"rgba(44,160,44,1)"}},"name":"Variación de fallecimientos","type":"bar","error_y":{"color":"rgba(44,160,44,1)"},"error_x":{"color":"rgba(44,160,44,1)"},"xaxis":"x","yaxis":"y","frame":null}],"highlight":{"on":"plotly_click","persistent":false,"dynamic":false,"selectize":false,"opacityDim":0.2,"selected":{"opacity":1},"debounce":0},"shinyEvents":["plotly_hover","plotly_click","plotly_selected","plotly_relayout","plotly_brushed","plotly_brushing","plotly_clickannotation","plotly_doubleclick","plotly_deselect","plotly_afterplot","plotly_sunburstclick"],"base_url":"https://plot.ly"},"evals":[],"jsHooks":[]}</script>
+<div id="htmlwidget-3eb326c50c92273f00ec" style="width:576px;height:460.8px;" class="plotly html-widget"></div>
+<script type="application/json" data-for="htmlwidget-3eb326c50c92273f00ec">{"x":{"visdat":{"4356c1b909a":["function () ","plotlyVisDat"]},"cur_data":"4356c1b909a","attrs":{"4356c1b909a":{"x":{},"y":{},"marker":{"color":"#FF7F0E"},"name":"Variación de casos activos","alpha_stroke":1,"sizes":[10,100],"spans":[1,20],"type":"bar"},"4356c1b909a.1":{"x":{},"y":{},"marker":{"color":"#2C9F2C"},"name":"Variación de casos recuperados","alpha_stroke":1,"sizes":[10,100],"spans":[1,20],"type":"bar","inherit":true},"4356c1b909a.2":{"x":{},"y":{},"marker":{"color":"rgba(214, 39, 40, 1)"},"name":"Variación de fallecimientos","alpha_stroke":1,"sizes":[10,100],"spans":[1,20],"type":"bar","inherit":true}},"layout":{"margin":{"b":40,"l":60,"t":25,"r":10},"barmode":"stack","shapes":[{"type":"line","y0":0,"y1":1,"yref":"paper","x0":"2020-03-13","x1":"2020-03-13","line":{"color":"grey","dash":"dot"}},{"type":"line","y0":0,"y1":1,"yref":"paper","x0":"2020-03-16","x1":"2020-03-16","line":{"color":"grey","dash":"dot"}},{"type":"line","y0":0,"y1":1,"yref":"paper","x0":"2020-03-30","x1":"2020-03-30","line":{"color":"grey","dash":"dot"}}],"annotations":[{"text":"Datos: Ministerio de Sanidad a través de Datadista","x":1,"y":-0.05,"showarrow":false,"xref":"paper","yref":"paper","xanchor":"right","yanchor":"bottom","font":{"size":10,"color":"grey"}},{"yref":"paper","xref":"x","y":0.5,"x":"2020-3-13","text":"Confinamiento voluntario"},{"yref":"paper","xref":"x","y":0.75,"x":"2020-3-16","text":"Confinamiento obligatorio"},{"yref":"paper","xref":"x","y":0.9,"x":"2020-3-30","text":"Únicamente trabajos indispensables"}],"title":"Composición de casos del COVID-19 con respecto al día anterior, en España","yaxis":{"domain":[0,1],"automargin":true,"title":"Número de casos"},"xaxis":{"domain":[0,1],"automargin":true,"title":"Fecha"},"legend":{"x":0.1,"y":0.9},"hovermode":"compare","showlegend":true},"source":"A","config":{"showSendToCloud":false},"data":[{"x":["2020-03-31","2020-03-30","2020-03-29","2020-03-28","2020-03-27","2020-03-26","2020-03-25","2020-03-24","2020-03-23","2020-03-22","2020-03-21","2020-03-20","2020-03-19","2020-03-18","2020-03-17","2020-03-16","2020-03-15","2020-03-14","2020-03-13","2020-03-12","2020-03-11","2020-03-10"],"y":[5894,3515,3287,4429,4760,6275,5626,5631,3275,2802,4082,2120,3236,2378,1307,1404,1848,1200,1223,779,446,493],"marker":{"color":"#FF7F0E","line":{"color":"rgba(31,119,180,1)"}},"name":"Variación de casos activos","type":"bar","error_y":{"color":"rgba(31,119,180,1)"},"error_x":{"color":"rgba(31,119,180,1)"},"xaxis":"x","yaxis":"y","frame":null},{"x":["2020-03-31","2020-03-30","2020-03-29","2020-03-28","2020-03-27","2020-03-26","2020-03-25","2020-03-24","2020-03-23","2020-03-22","2020-03-21","2020-03-20","2020-03-19","2020-03-18","2020-03-17","2020-03-16","2020-03-15","2020-03-14","2020-03-13","2020-03-12","2020-03-11","2020-03-10"],"y":[2479,2071,2424,2928,2342,1648,1573,439,780,450,540,478,26,53,498,13,0,328,0,6,48,112],"marker":{"color":"#2C9F2C","line":{"color":"rgba(255,127,14,1)"}},"name":"Variación de casos recuperados","type":"bar","error_y":{"color":"rgba(255,127,14,1)"},"error_x":{"color":"rgba(255,127,14,1)"},"xaxis":"x","yaxis":"y","frame":null},{"x":["2020-03-31","2020-03-30","2020-03-29","2020-03-28","2020-03-27","2020-03-26","2020-03-25","2020-03-24","2020-03-23","2020-03-22","2020-03-21","2020-03-20","2020-03-19","2020-03-18","2020-03-17","2020-03-16","2020-03-15","2020-03-14","2020-03-13","2020-03-12","2020-03-11","2020-03-10","2020-03-09","2020-03-08","2020-03-07","2020-03-06","2020-03-05"],"y":[849,812,838,832,769,655,738,514,462,394,324,235,169,107,182,21,152,16,36,37,12,18,0,9,3,2,2],"marker":{"color":"rgba(214, 39, 40, 1)","line":{"color":"rgba(44,160,44,1)"}},"name":"Variación de fallecimientos","type":"bar","error_y":{"color":"rgba(44,160,44,1)"},"error_x":{"color":"rgba(44,160,44,1)"},"xaxis":"x","yaxis":"y","frame":null}],"highlight":{"on":"plotly_click","persistent":false,"dynamic":false,"selectize":false,"opacityDim":0.2,"selected":{"opacity":1},"debounce":0},"shinyEvents":["plotly_hover","plotly_click","plotly_selected","plotly_relayout","plotly_brushed","plotly_brushing","plotly_clickannotation","plotly_doubleclick","plotly_deselect","plotly_afterplot","plotly_sunburstclick"],"base_url":"https://plot.ly"},"evals":[],"jsHooks":[]}</script>
 </div>
 <div id="tabla-de-datos" class="section level3">
 <h3>Tabla de datos</h3>
 <div class="knitr-options" data-fig-width="576" data-fig-height="460">
 
 </div>
-<div id="htmlwidget-b868a42c4bcfabfa4391" style="width:100%;height:auto;" class="datatables html-widget"></div>
-<script type="application/json" data-for="htmlwidget-b868a42c4bcfabfa4391">{"x":{"filter":"none","fillContainer":true,"data":[["1","2","3","4","5","6","7","8","9","10","11","12","13","14","15","16","17","18","19","20","21","22","23","24","25","26","27","28","29","30","31","32","33","34","35"],["2020-03-30","2020-03-29","2020-03-28","2020-03-27","2020-03-26","2020-03-25","2020-03-24","2020-03-23","2020-03-22","2020-03-21","2020-03-20","2020-03-19","2020-03-18","2020-03-17","2020-03-16","2020-03-15","2020-03-14","2020-03-13","2020-03-12","2020-03-11","2020-03-10","2020-03-09","2020-03-08","2020-03-07","2020-03-06","2020-03-05","2020-03-04","2020-03-03","2020-03-02","2020-03-01","2020-02-29","2020-02-28","2020-02-27","2020-02-26","2020-02-25"],[85195,78797,72248,64059,56188,47610,39673,33089,28572,24926,19980,17147,13716,11178,9191,7753,5753,4209,2950,2128,1622,999,589,430,365,237,198,135,114,66,44,32,16,10,3],[6398,6549,8189,7871,8578,7937,6584,4517,3646,4946,2833,3431,2538,1987,1438,2000,1544,1259,822,506,623,410,159,65,128,39,63,21,48,22,12,16,6,7,null],[5231,4907,4575,4165,3679,3166,2636,2355,1785,1612,1141,939,774,563,432,382,293,272,190,142,100,68,null,null,11,9,7,null,null,null,null,null,null,null,null],[324,332,410,486,513,530,281,570,173,471,202,165,211,131,50,89,21,82,48,42,32,null,null,null,2,2,null,null,null,null,null,null,null,null,null],[16780,14709,12285,9357,7015,5367,3794,3355,2575,2125,1585,1107,1081,1028,530,517,517,189,189,183,135,23,null,null,null,null,null,null,null,null,null,null,null,null,null],[2071,2424,2928,2342,1648,1573,439,780,450,540,478,26,53,498,13,0,328,0,6,48,112,null,null,null,null,null,null,null,null,null,null,null,null,null,null],[7340,6528,5690,4858,4089,3434,2696,2182,1720,1326,1002,767,598,491,309,288,136,120,84,47,35,17,17,8,5,3,1,null,null,null,null,null,null,null,null],[812,838,832,769,655,738,514,462,394,324,235,169,107,182,21,152,16,36,37,12,18,0,9,3,2,2,null,null,null,null,null,null,null,null,null],[61075,57560,54273,49844,45084,38809,33183,27552,24277,21475,17393,15273,12037,9659,8352,6948,5100,3900,2677,1898,1452,959,null,null,null,null,null,null,null,null,null,null,null,null,null],[3515,3287,4429,4760,6275,5626,5631,3275,2802,4082,2120,3236,2378,1307,1404,1848,1200,1223,779,446,493,null,null,null,null,null,null,null,null,null,null,null,null,null,null]],"container":"<table class=\"display fill-container\">\n  <thead>\n    <tr>\n      <th> <\/th>\n      <th>Fecha<\/th>\n      <th>Casos<\/th>\n      <th>Variación contagios<\/th>\n      <th>Ingresos UCI<\/th>\n      <th>Variación UCI<\/th>\n      <th>Altas<\/th>\n      <th>Variación de altas<\/th>\n      <th>Fallecimientos<\/th>\n      <th>Variación de fallecimientos<\/th>\n      <th>Casos activos<\/th>\n      <th>Variación de activos<\/th>\n    <\/tr>\n  <\/thead>\n<\/table>","options":{"pageLength":20,"lengthMenu":[10,20,30],"columnDefs":[{"className":"dt-right","targets":[2,3,4,5,6,7,8,9,10,11]},{"orderable":false,"targets":0}],"order":[],"autoWidth":false,"orderClasses":false,"rowCallback":"function(row, data) {\nDTWidget.formatRound(this, row, data, 2, 0, 3, \".\", \"\");\nDTWidget.formatRound(this, row, data, 3, 0, 3, \".\", \"\");\nDTWidget.formatRound(this, row, data, 4, 0, 3, \".\", \"\");\nDTWidget.formatRound(this, row, data, 5, 0, 3, \".\", \"\");\nDTWidget.formatRound(this, row, data, 6, 0, 3, \".\", \"\");\nDTWidget.formatRound(this, row, data, 7, 0, 3, \".\", \"\");\nDTWidget.formatRound(this, row, data, 8, 0, 3, \".\", \"\");\nDTWidget.formatRound(this, row, data, 9, 0, 3, \".\", \"\");\nDTWidget.formatRound(this, row, data, 10, 0, 3, \".\", \"\");\nDTWidget.formatRound(this, row, data, 11, 0, 3, \".\", \"\");\nvar value=data[3]; $(this.api().cell(row, 3).node()).css({'background':isNaN(parseFloat(value)) || value <= 6.000000 ? '' : 'linear-gradient(90.000000deg, transparent ' + (8578.000000 - value)/8572.000000 * 100 + '%, steelblue ' + (8578.000000 - value)/8572.000000 * 100 + '%)','background-size':'100% 90%','background-repeat':'no-repeat','background-position':'center'});\nvar value=data[5]; $(this.api().cell(row, 5).node()).css({'background':isNaN(parseFloat(value)) || value <= 2.000000 ? '' : 'linear-gradient(90.000000deg, transparent ' + (570.000000 - value)/568.000000 * 100 + '%, pink ' + (570.000000 - value)/568.000000 * 100 + '%)','background-size':'100% 90%','background-repeat':'no-repeat','background-position':'center'});\nvar value=data[7]; $(this.api().cell(row, 7).node()).css({'background':isNaN(parseFloat(value)) || value <= 0.000000 ? '' : 'linear-gradient(90.000000deg, transparent ' + (2928.000000 - value)/2928.000000 * 100 + '%, #2C9F2C ' + (2928.000000 - value)/2928.000000 * 100 + '%)','background-size':'100% 90%','background-repeat':'no-repeat','background-position':'center'});\nvar value=data[9]; $(this.api().cell(row, 9).node()).css({'background':isNaN(parseFloat(value)) || value <= 0.000000 ? '' : 'linear-gradient(90.000000deg, transparent ' + (838.000000 - value)/838.000000 * 100 + '%, #D62728 ' + (838.000000 - value)/838.000000 * 100 + '%)','background-size':'100% 90%','background-repeat':'no-repeat','background-position':'center'});\nvar value=data[11]; $(this.api().cell(row, 11).node()).css({'background':isNaN(parseFloat(value)) || value <= 446.000000 ? '' : 'linear-gradient(90.000000deg, transparent ' + (6275.000000 - value)/5829.000000 * 100 + '%, #FF7F0E ' + (6275.000000 - value)/5829.000000 * 100 + '%)','background-size':'100% 90%','background-repeat':'no-repeat','background-position':'center'});\n}"}},"evals":["options.rowCallback"],"jsHooks":[]}</script>
+<div id="htmlwidget-0e1618e14afbb01a2787" style="width:100%;height:auto;" class="datatables html-widget"></div>
+<script type="application/json" data-for="htmlwidget-0e1618e14afbb01a2787">{"x":{"filter":"none","fillContainer":true,"data":[["1","2","3","4","5","6","7","8","9","10","11","12","13","14","15","16","17","18","19","20","21","22","23","24","25","26","27","28","29","30","31","32","33","34","35","36"],["2020-03-31","2020-03-30","2020-03-29","2020-03-28","2020-03-27","2020-03-26","2020-03-25","2020-03-24","2020-03-23","2020-03-22","2020-03-21","2020-03-20","2020-03-19","2020-03-18","2020-03-17","2020-03-16","2020-03-15","2020-03-14","2020-03-13","2020-03-12","2020-03-11","2020-03-10","2020-03-09","2020-03-08","2020-03-07","2020-03-06","2020-03-05","2020-03-04","2020-03-03","2020-03-02","2020-03-01","2020-02-29","2020-02-28","2020-02-27","2020-02-26","2020-02-25"],[94417,85195,78797,72248,64059,56188,47610,39673,33089,28572,24926,19980,17147,13716,11178,9191,7753,5753,4209,2950,2128,1622,999,589,430,365,237,198,135,114,66,44,32,16,10,3],[9222,6398,6549,8189,7871,8578,7937,6584,4517,3646,4946,2833,3431,2538,1987,1438,2000,1544,1259,822,506,623,410,159,65,128,39,63,21,48,22,12,16,6,7,null],[5607,5231,4907,4575,4165,3679,3166,2636,2355,1785,1612,1141,939,774,563,432,382,293,272,190,142,100,68,null,null,11,9,7,null,null,null,null,null,null,null,null],[376,324,332,410,486,513,530,281,570,173,471,202,165,211,131,50,89,21,82,48,42,32,null,null,null,2,2,null,null,null,null,null,null,null,null,null],[19259,16780,14709,12285,9357,7015,5367,3794,3355,2575,2125,1585,1107,1081,1028,530,517,517,189,189,183,135,23,null,null,null,null,null,null,null,null,null,null,null,null,null],[2479,2071,2424,2928,2342,1648,1573,439,780,450,540,478,26,53,498,13,0,328,0,6,48,112,null,null,null,null,null,null,null,null,null,null,null,null,null,null],[8189,7340,6528,5690,4858,4089,3434,2696,2182,1720,1326,1002,767,598,491,309,288,136,120,84,47,35,17,17,8,5,3,1,null,null,null,null,null,null,null,null],[849,812,838,832,769,655,738,514,462,394,324,235,169,107,182,21,152,16,36,37,12,18,0,9,3,2,2,null,null,null,null,null,null,null,null,null],[66969,61075,57560,54273,49844,45084,38809,33183,27552,24277,21475,17393,15273,12037,9659,8352,6948,5100,3900,2677,1898,1452,959,null,null,null,null,null,null,null,null,null,null,null,null,null],[5894,3515,3287,4429,4760,6275,5626,5631,3275,2802,4082,2120,3236,2378,1307,1404,1848,1200,1223,779,446,493,null,null,null,null,null,null,null,null,null,null,null,null,null,null]],"container":"<table class=\"display fill-container\">\n  <thead>\n    <tr>\n      <th> <\/th>\n      <th>Fecha<\/th>\n      <th>Casos<\/th>\n      <th>Variación contagios<\/th>\n      <th>Ingresos UCI<\/th>\n      <th>Variación UCI<\/th>\n      <th>Altas<\/th>\n      <th>Variación de altas<\/th>\n      <th>Fallecimientos<\/th>\n      <th>Variación de fallecimientos<\/th>\n      <th>Casos activos<\/th>\n      <th>Variación de activos<\/th>\n    <\/tr>\n  <\/thead>\n<\/table>","options":{"pageLength":20,"lengthMenu":[10,20,30],"columnDefs":[{"className":"dt-right","targets":[2,3,4,5,6,7,8,9,10,11]},{"orderable":false,"targets":0}],"order":[],"autoWidth":false,"orderClasses":false,"rowCallback":"function(row, data) {\nDTWidget.formatRound(this, row, data, 2, 0, 3, \".\", \"\");\nDTWidget.formatRound(this, row, data, 3, 0, 3, \".\", \"\");\nDTWidget.formatRound(this, row, data, 4, 0, 3, \".\", \"\");\nDTWidget.formatRound(this, row, data, 5, 0, 3, \".\", \"\");\nDTWidget.formatRound(this, row, data, 6, 0, 3, \".\", \"\");\nDTWidget.formatRound(this, row, data, 7, 0, 3, \".\", \"\");\nDTWidget.formatRound(this, row, data, 8, 0, 3, \".\", \"\");\nDTWidget.formatRound(this, row, data, 9, 0, 3, \".\", \"\");\nDTWidget.formatRound(this, row, data, 10, 0, 3, \".\", \"\");\nDTWidget.formatRound(this, row, data, 11, 0, 3, \".\", \"\");\nvar value=data[3]; $(this.api().cell(row, 3).node()).css({'background':isNaN(parseFloat(value)) || value <= 6.000000 ? '' : 'linear-gradient(90.000000deg, transparent ' + (9222.000000 - value)/9216.000000 * 100 + '%, steelblue ' + (9222.000000 - value)/9216.000000 * 100 + '%)','background-size':'100% 90%','background-repeat':'no-repeat','background-position':'center'});\nvar value=data[5]; $(this.api().cell(row, 5).node()).css({'background':isNaN(parseFloat(value)) || value <= 2.000000 ? '' : 'linear-gradient(90.000000deg, transparent ' + (570.000000 - value)/568.000000 * 100 + '%, pink ' + (570.000000 - value)/568.000000 * 100 + '%)','background-size':'100% 90%','background-repeat':'no-repeat','background-position':'center'});\nvar value=data[7]; $(this.api().cell(row, 7).node()).css({'background':isNaN(parseFloat(value)) || value <= 0.000000 ? '' : 'linear-gradient(90.000000deg, transparent ' + (2928.000000 - value)/2928.000000 * 100 + '%, #2C9F2C ' + (2928.000000 - value)/2928.000000 * 100 + '%)','background-size':'100% 90%','background-repeat':'no-repeat','background-position':'center'});\nvar value=data[9]; $(this.api().cell(row, 9).node()).css({'background':isNaN(parseFloat(value)) || value <= 0.000000 ? '' : 'linear-gradient(90.000000deg, transparent ' + (849.000000 - value)/849.000000 * 100 + '%, #D62728 ' + (849.000000 - value)/849.000000 * 100 + '%)','background-size':'100% 90%','background-repeat':'no-repeat','background-position':'center'});\nvar value=data[11]; $(this.api().cell(row, 11).node()).css({'background':isNaN(parseFloat(value)) || value <= 446.000000 ? '' : 'linear-gradient(90.000000deg, transparent ' + (6275.000000 - value)/5829.000000 * 100 + '%, #FF7F0E ' + (6275.000000 - value)/5829.000000 * 100 + '%)','background-size':'100% 90%','background-repeat':'no-repeat','background-position':'center'});\n}"}},"evals":["options.rowCallback"],"jsHooks":[]}</script>
 </div>
 <div id="acerca-de-este-gráfico" class="section level3">
 <h3>Acerca de este gráfico</h3>
@@ -2702,7 +2702,7 @@ window.FlexDashboardComponents.push({
 <div class="knitr-options" data-fig-width="576" data-fig-height="460">
 
 </div>
-<span class="value-output" data-caption="Mostrando resultados del día 2020-03-30" data-icon="fas fa-exclamation-triangle" data-color="orange">Todavía en proceso...</span>
+<span class="value-output" data-caption="Mostrando resultados del día 2020-03-31" data-icon="fas fa-exclamation-triangle" data-color="orange">Todavía en proceso...</span>
 </div>
 </div>
 <div id="row-3" class="section level2 tabset tabset-fade">
@@ -2900,7 +2900,7 @@ valueBox(value = format(nacional_covid19$casos[1], big.mark = "."),
 valueBox(value = format(nacional_covid19$activos[1], big.mark = "."), 
          caption = paste0("Casos activos (a ", 
                           nacional_covid19$fecha[1], ")"), 
-         icon = "fas fal-bacteria", 
+         icon = "fas fa-viruses", 
          color = color_active)
 ```
 
